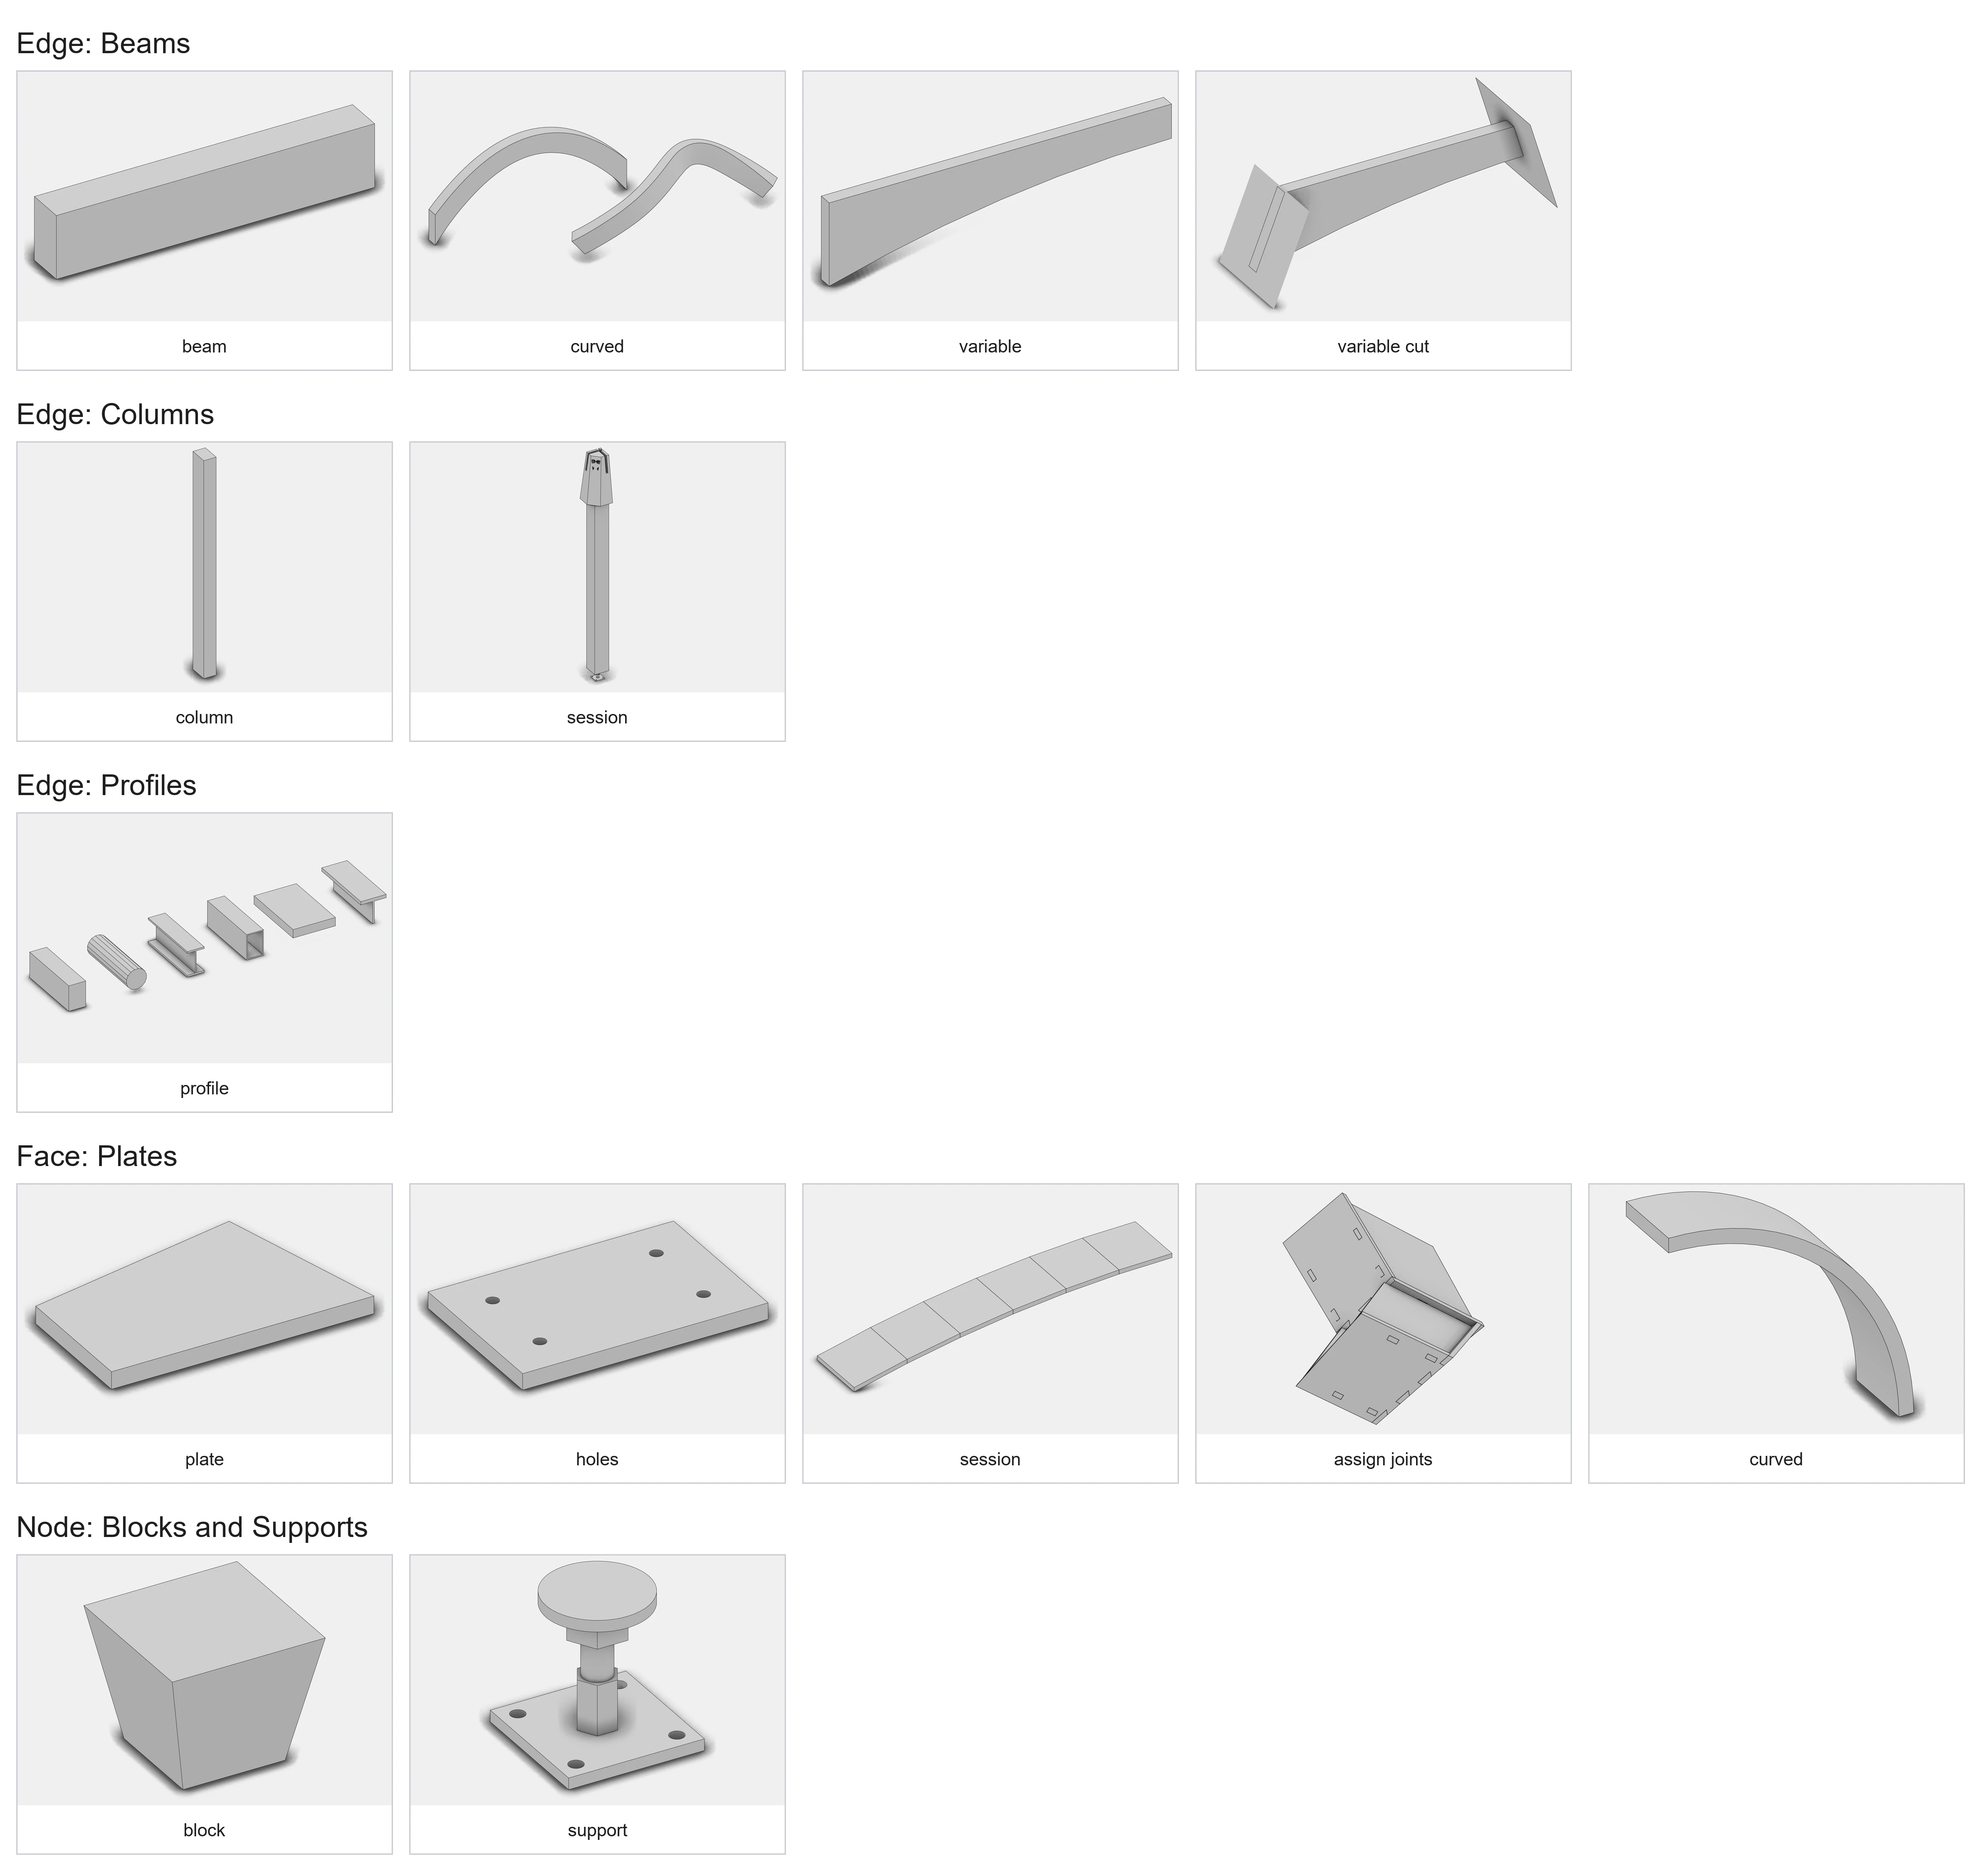
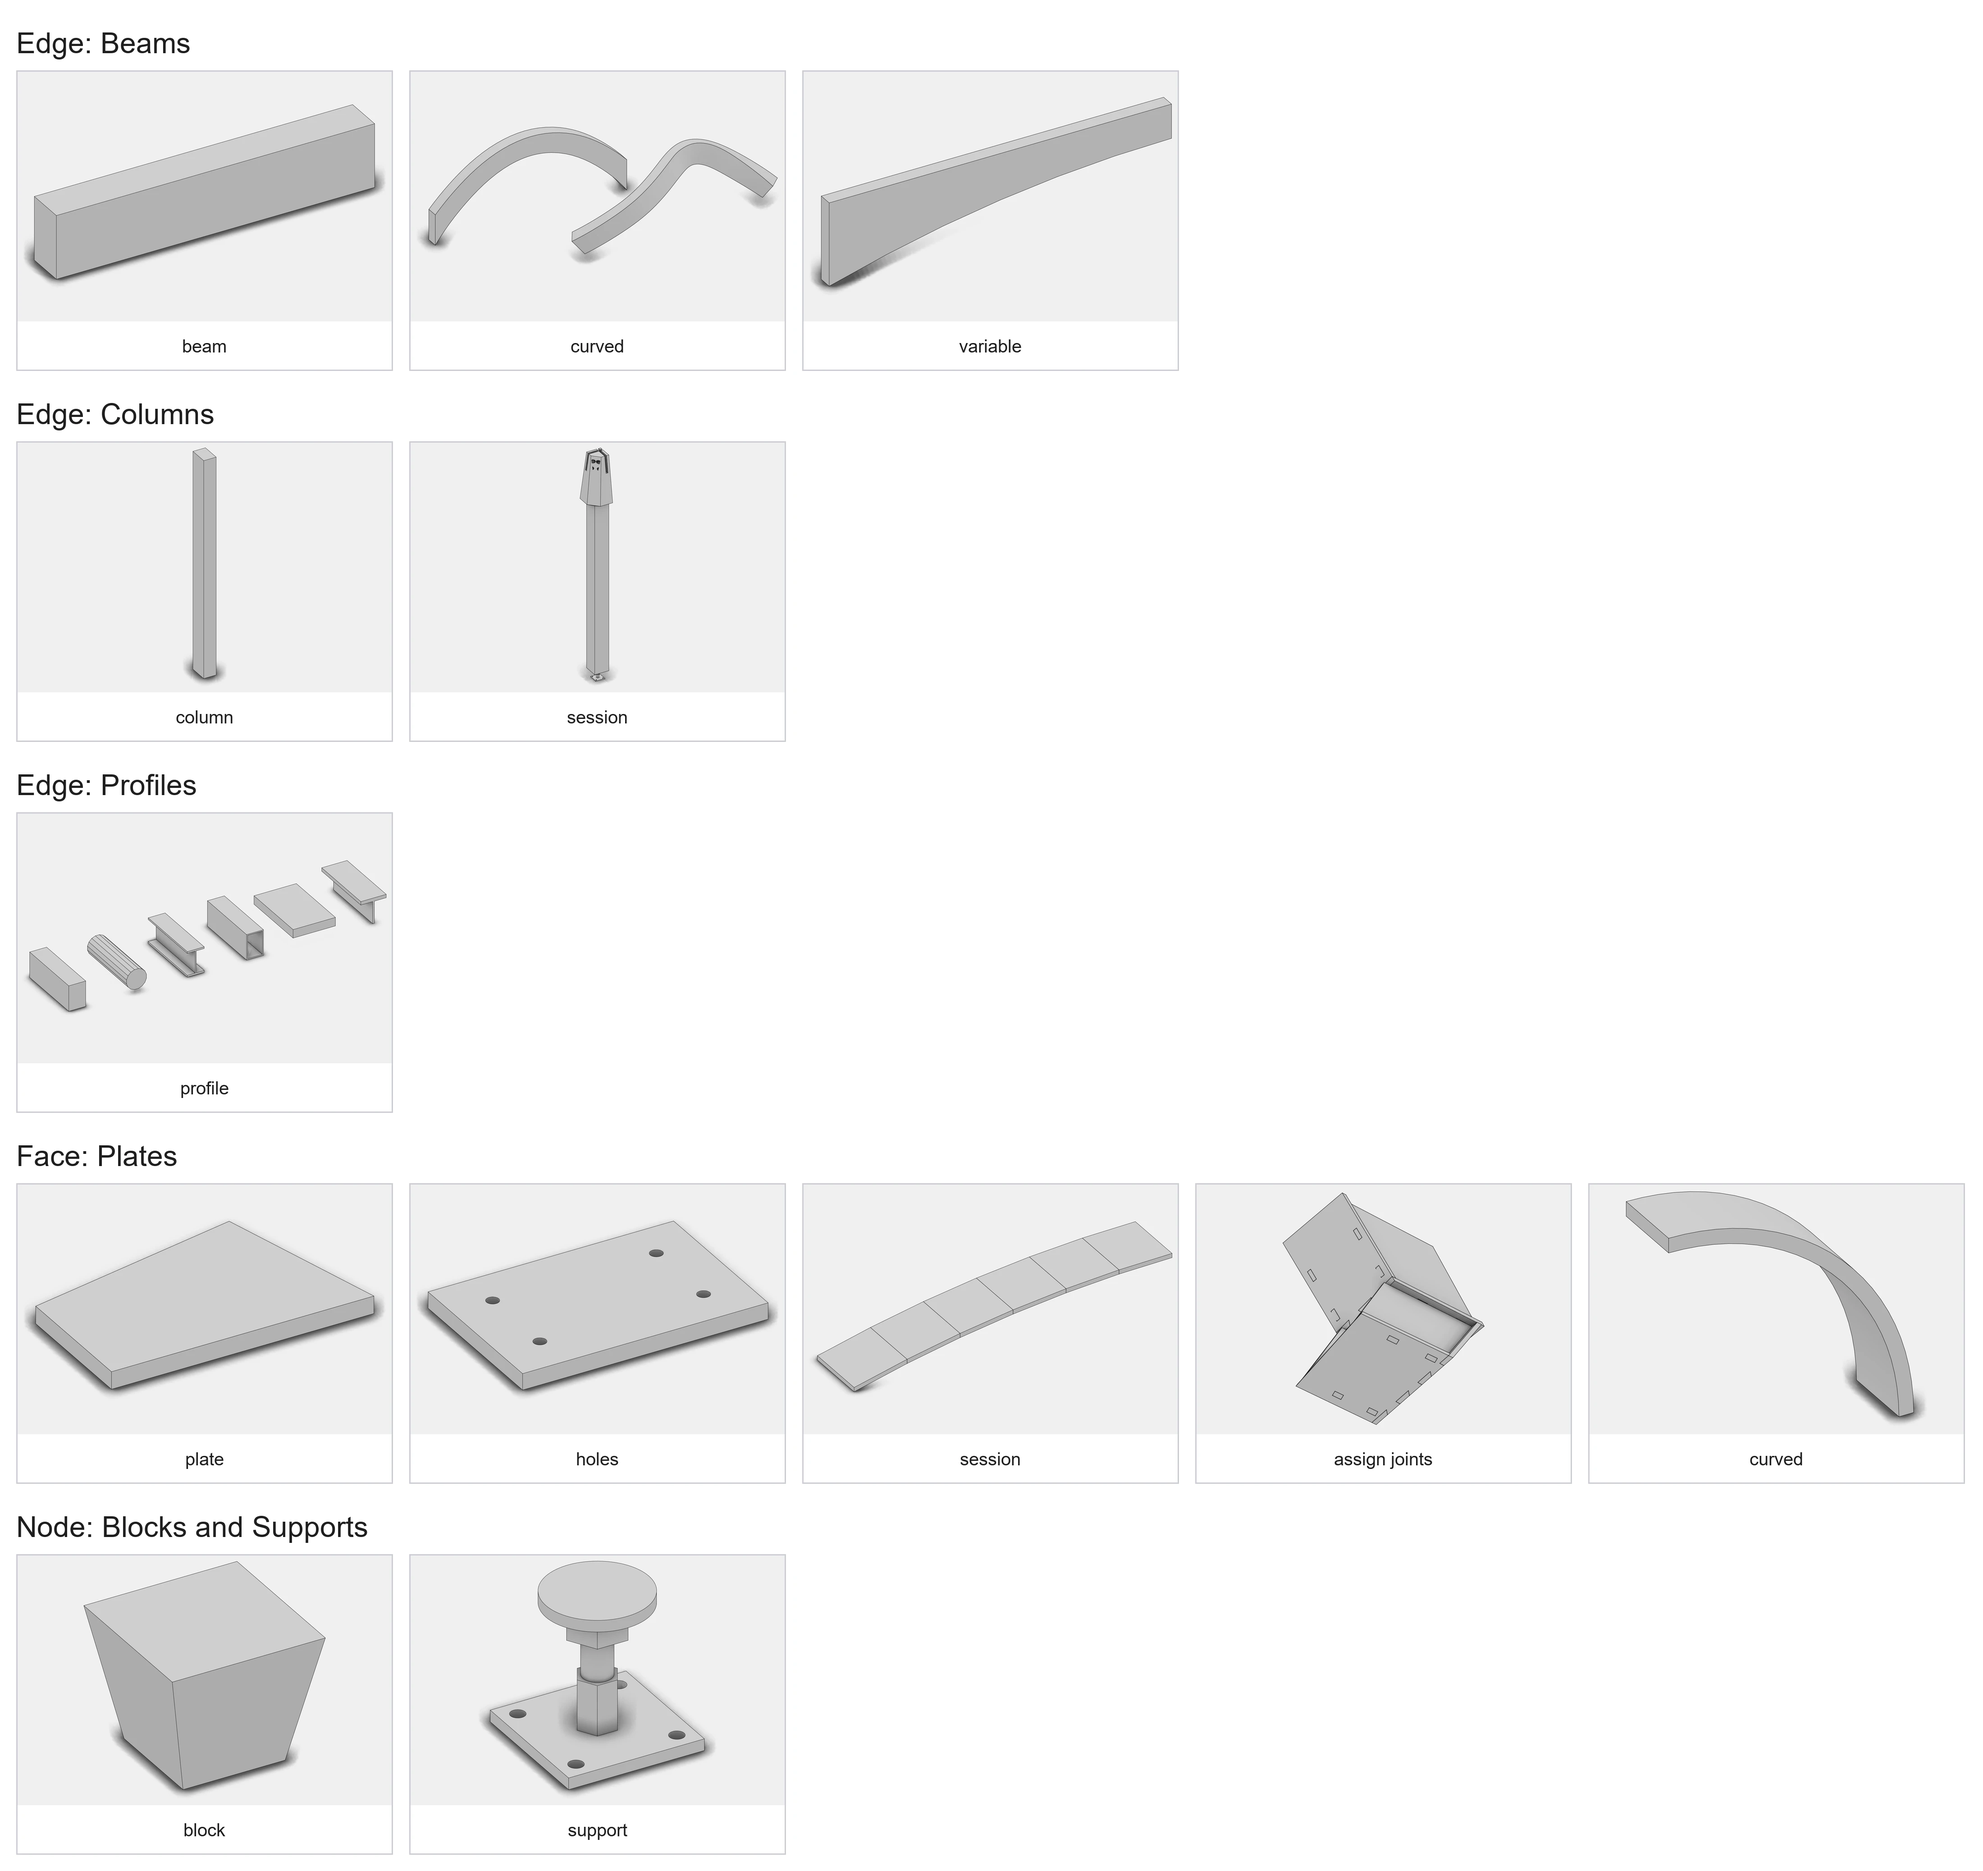
docs: the cut plane with the joints, not the elements

Changed region(s): [[0.5916, 0.0311, 0.7784, 0.1865]]

diff --git a/tools/render_element_sheets.py b/tools/render_element_sheets.py
@@ -35,7 +35,6 @@ SHEET_1 = [
     "element_beam",
     "element_beam_curved",
     "element_beam_variable",
-    "element_beam_variable_cut",
     "element_column",
     "element_column_session",
     "element_block",
@@ -67,6 +66,7 @@ SHEET_4 = [
     "element_joint_beam_pins",
     "element_joint_beam_keyed_box",
     "element_pin",
+    "element_beam_variable_cut",
 ]
 
 # all example names
@@ -126,8 +126,8 @@ GROUPS = {
     ],
     "4_connectors": [
         ("Pins", r"(_pins|element_pin)$", ""),
-        ("Connectors", r"_beam_", ""),
-        ("Cutters and Drills", r"", "joint "),
+        ("Connectors", r"_joint_beam_", ""),
+        ("Cuts and Drills", r"", "joint "),
     ],
 }
 

diff --git a/docs/elements.md b/docs/elements.md
@@ -19,10 +19,6 @@
     <img src="element_beam_variable.png" alt="Beam variable">
     <span class="wood-card-title">variable</span>
   </a>
-  <a class="wood-card" href="elements_cut_plane.html">
-    <img src="element_beam_variable_cut.png" alt="Beam variable cut">
-    <span class="wood-card-title">variable cut</span>
-  </a>
 </div>
 
 ### Columns
@@ -421,9 +417,13 @@
   </a>
 </div>
 
-### Cutters and Drills
+### Cuts and Drills
 
 <div class="wood-card-grid cols-4">
+  <a class="wood-card" href="elements_cut_plane.html">
+    <img src="element_beam_variable_cut.png" alt="Beam variable cut">
+    <span class="wood-card-title">cut plane</span>
+  </a>
   <a class="wood-card" href="elements_joint.html">
     <img src="element_joint_cutter.png" alt="Joint cutter">
     <span class="wood-card-title">cutter</span>
